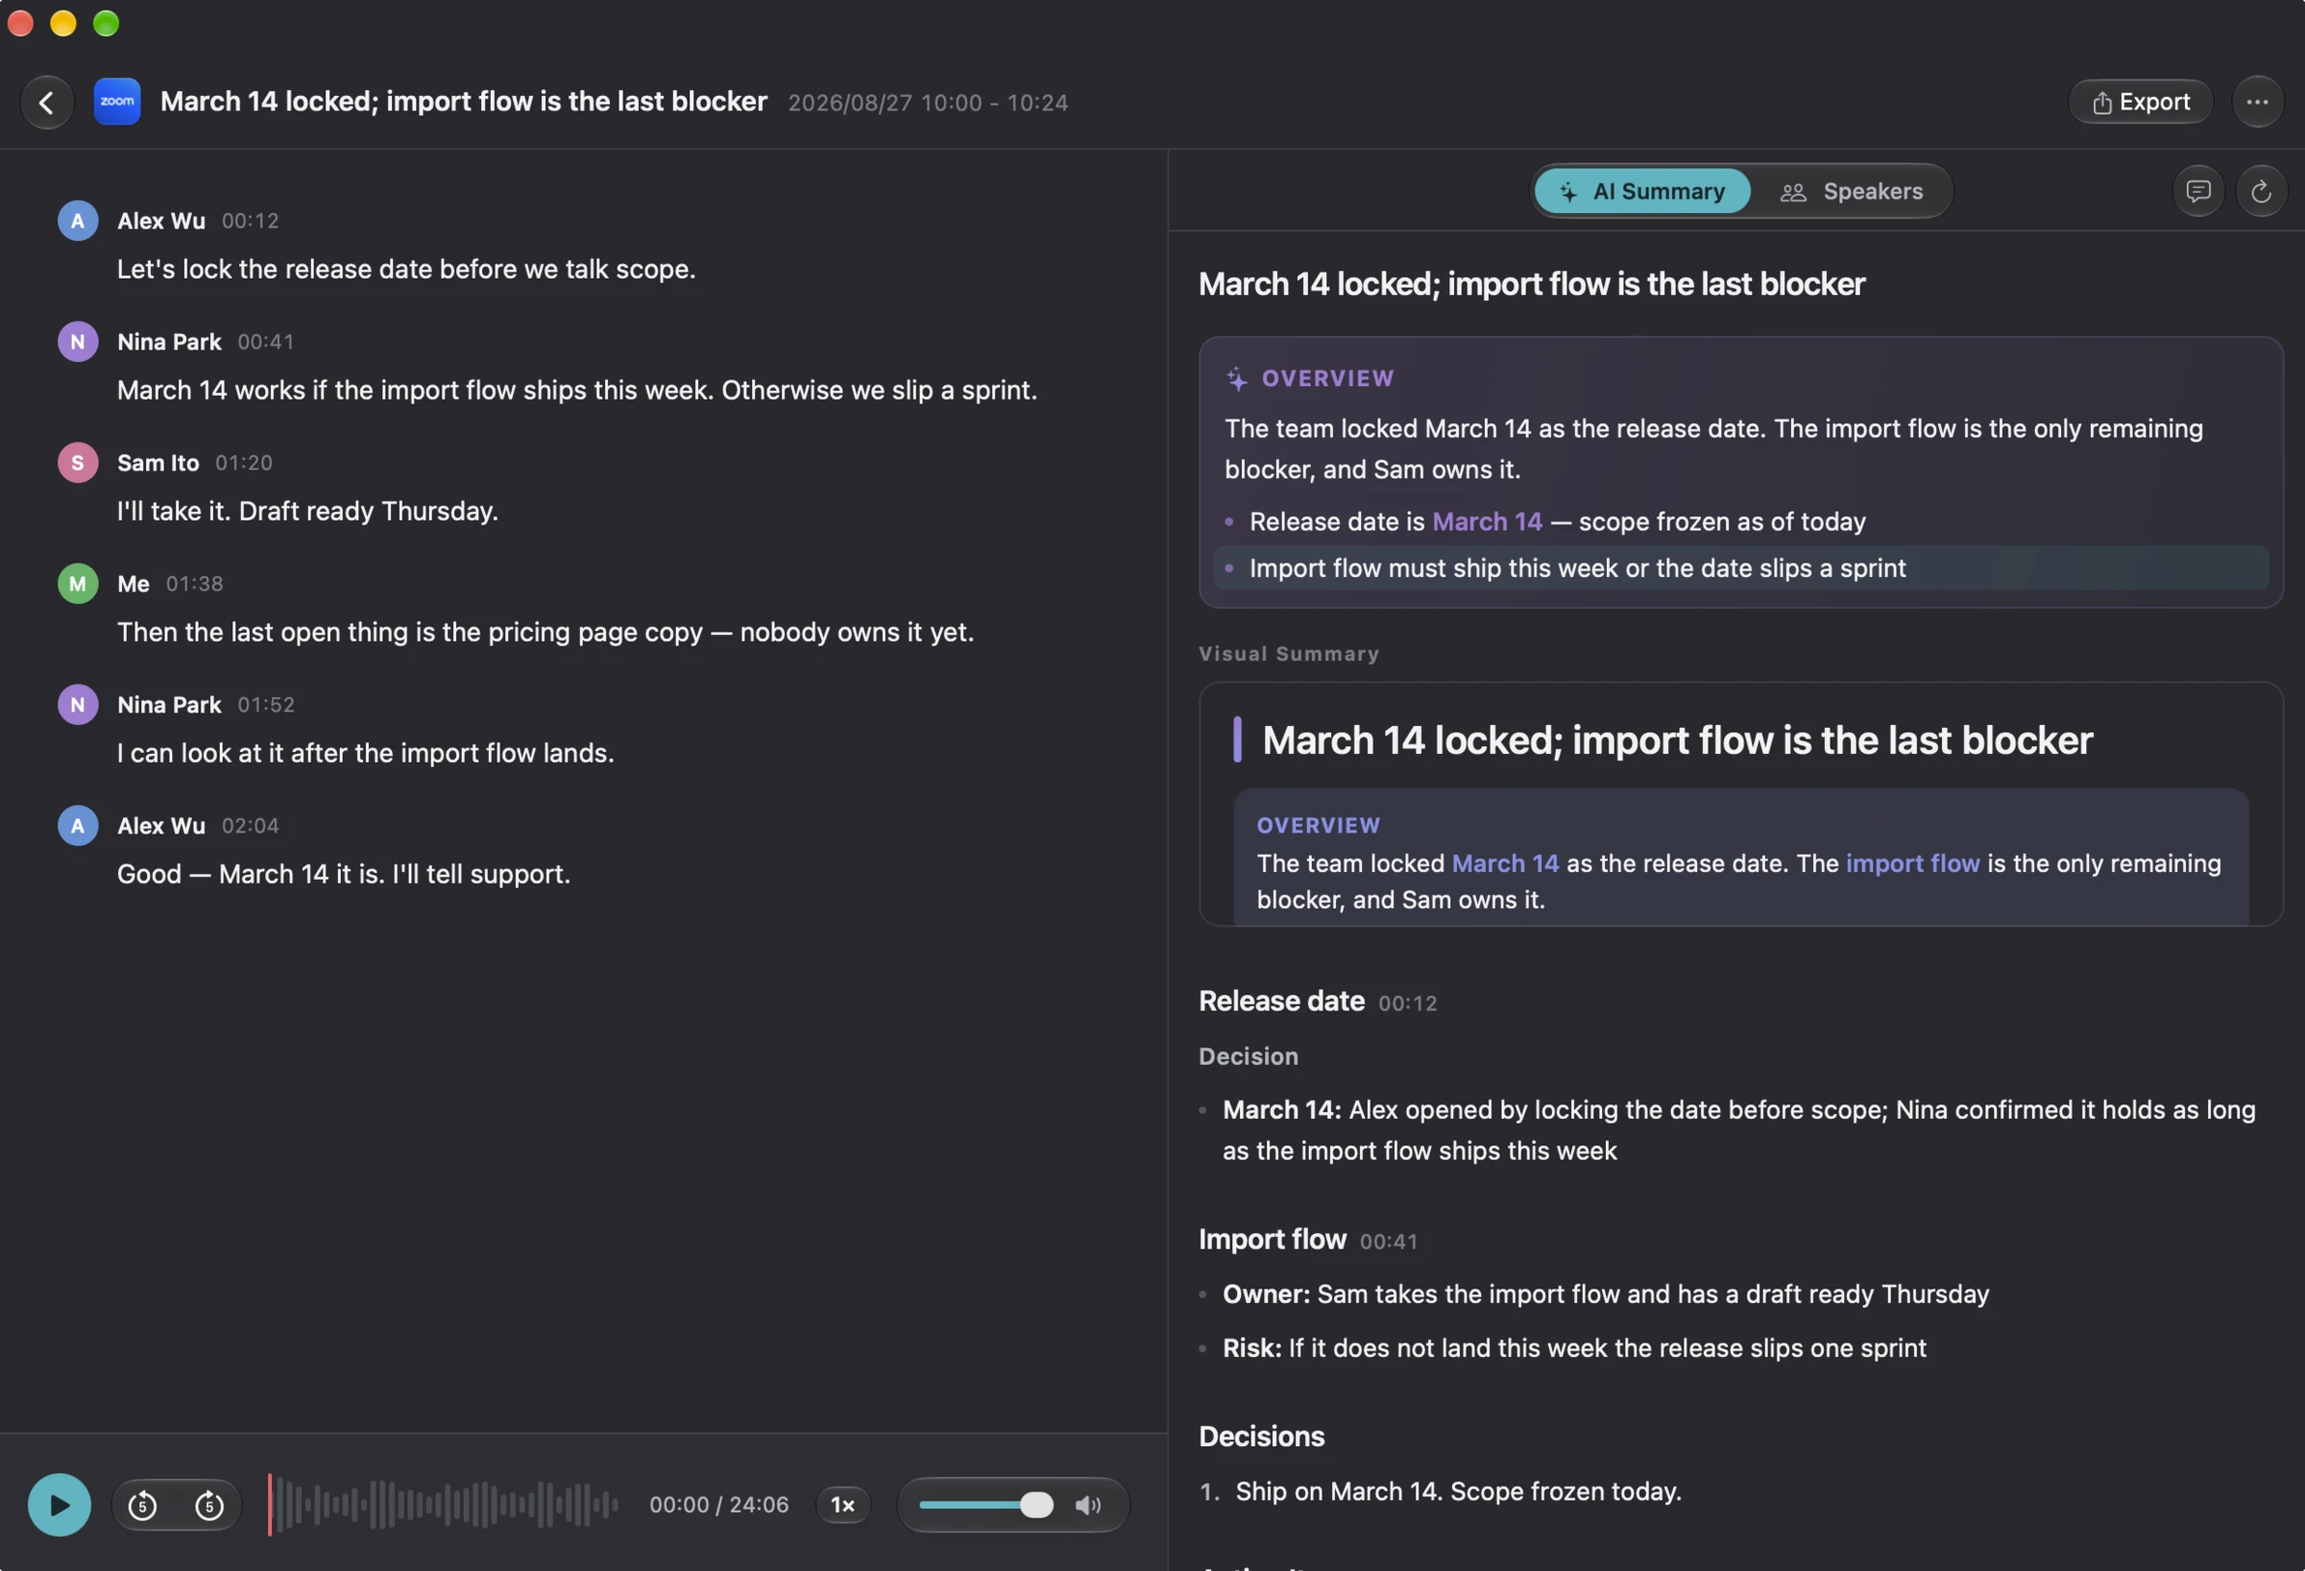
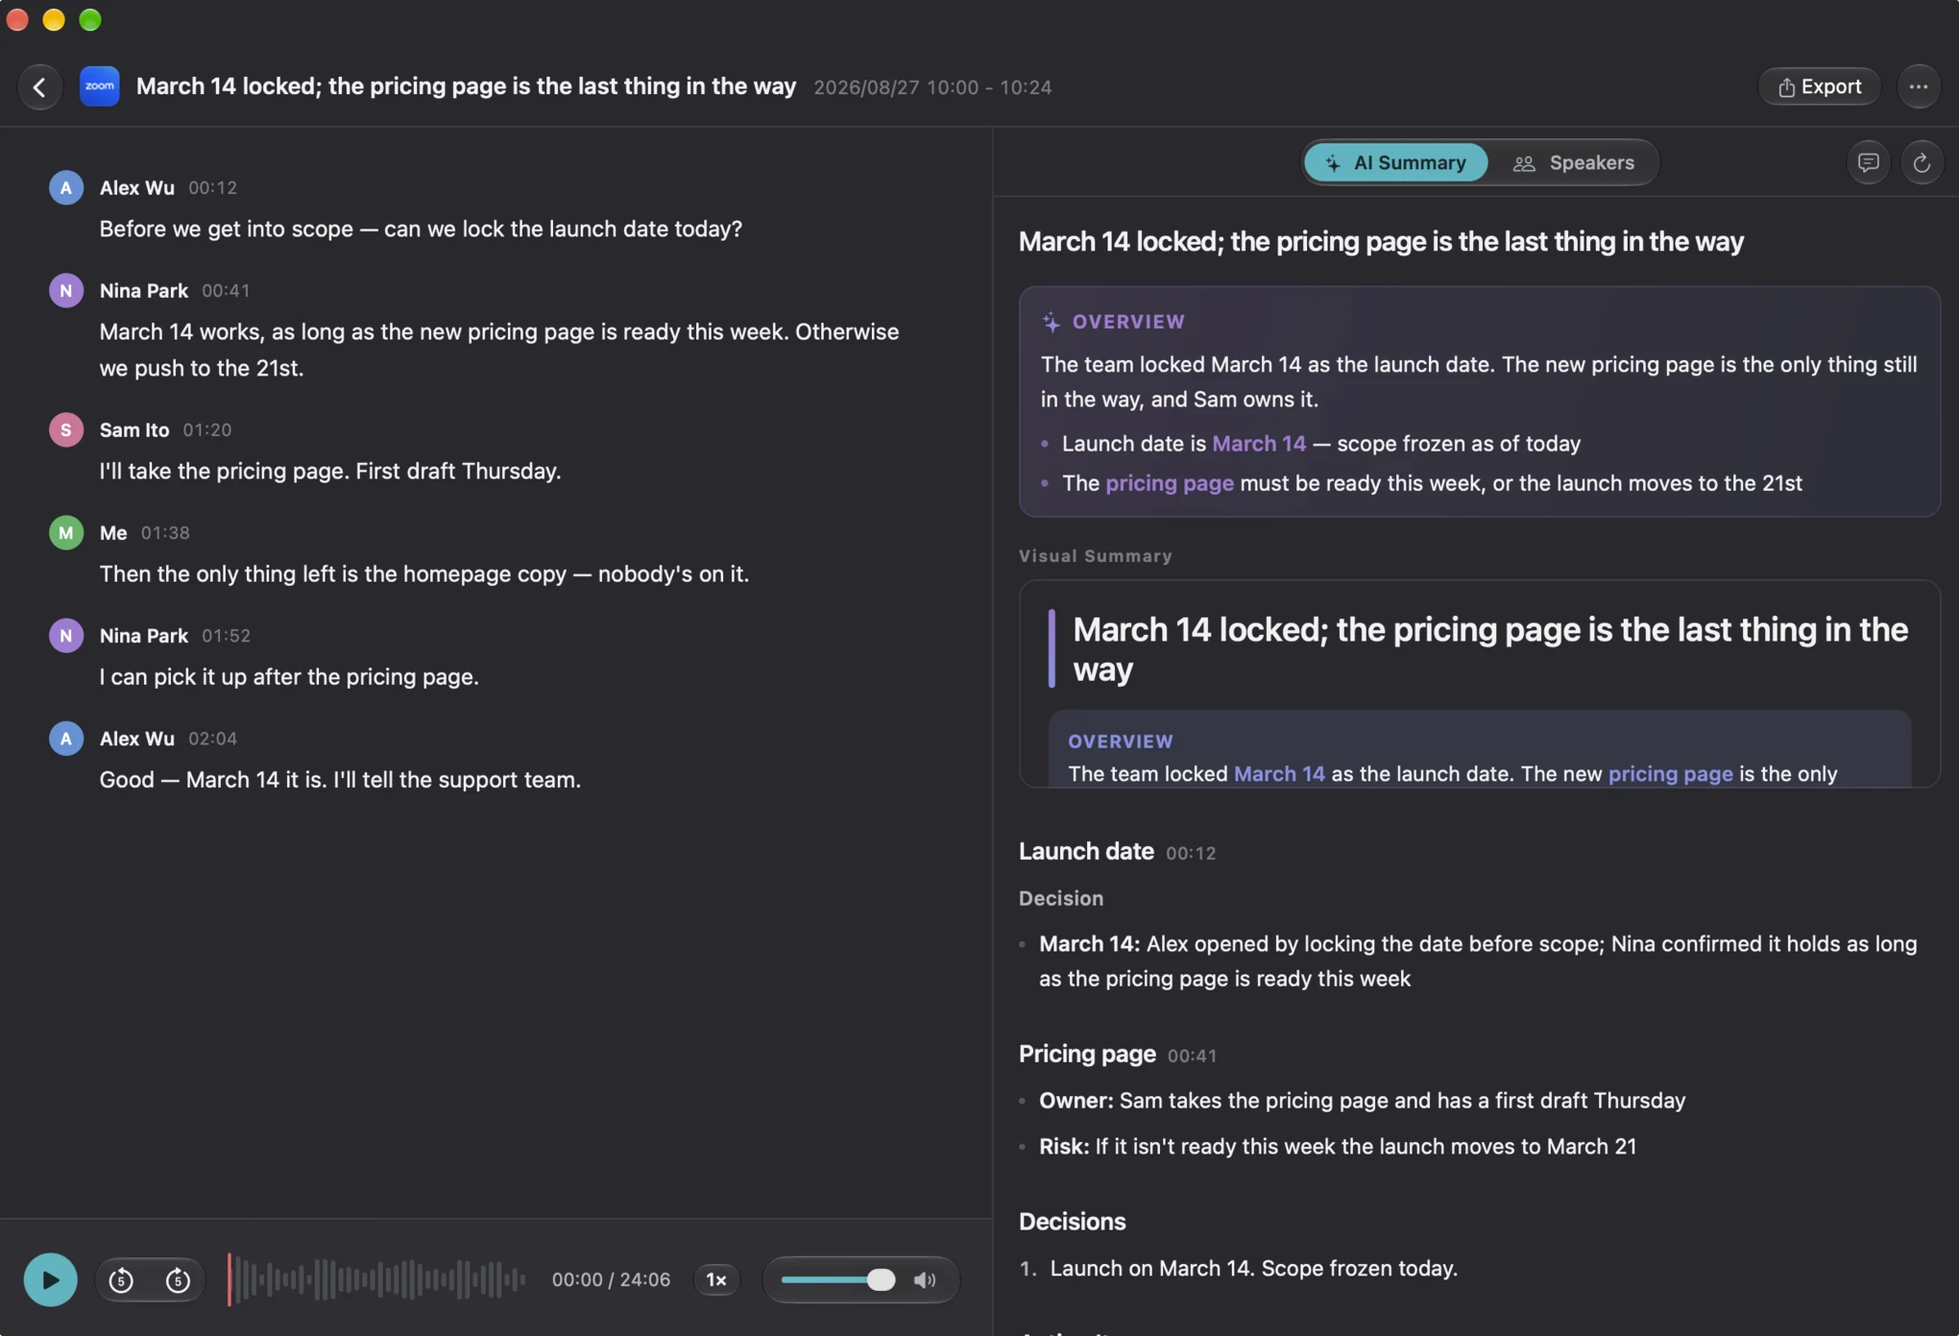
docs: README 只留一张首屏截图——与官网首屏同源，撤下会议库列表图
会议库那张截的是真实会议库，含私人会议标题，不该出现在公开仓。
保留的那张是演示种子的「上线前对齐会」，中英同一场会（见主仓 DEMO-STORY.md）。

diff --git a/README.md b/README.md
@@ -25,8 +25,6 @@
 
 <img src="screenshots/en-hero.webp" alt="MeetKeep meeting view: word-level transcript on the left, AI notes on the right" width="100%"/>
 
-<img src="screenshots/en-summary.webp" alt="MeetKeep visual summary: takeaways, decisions, and action items on one page" width="100%"/>
-
 ## Features
 
 * 💻 Native macOS app. Written in Swift. Built for Apple Silicon.

diff --git a/README.zh-CN.md b/README.zh-CN.md
@@ -25,8 +25,6 @@
 
 <img src="screenshots/zh-hero.webp" alt="MeetKeep 会议详情：左侧逐字转写，右侧 AI 纪要" width="100%"/>
 
-<img src="screenshots/zh-summary.webp" alt="MeetKeep 可视化纪要：要点、决策与待办一页呈现" width="100%"/>
-
 ## 功能
 
 * 💻 原生 macOS 应用，Swift 编写，专为 Apple Silicon 打造。
